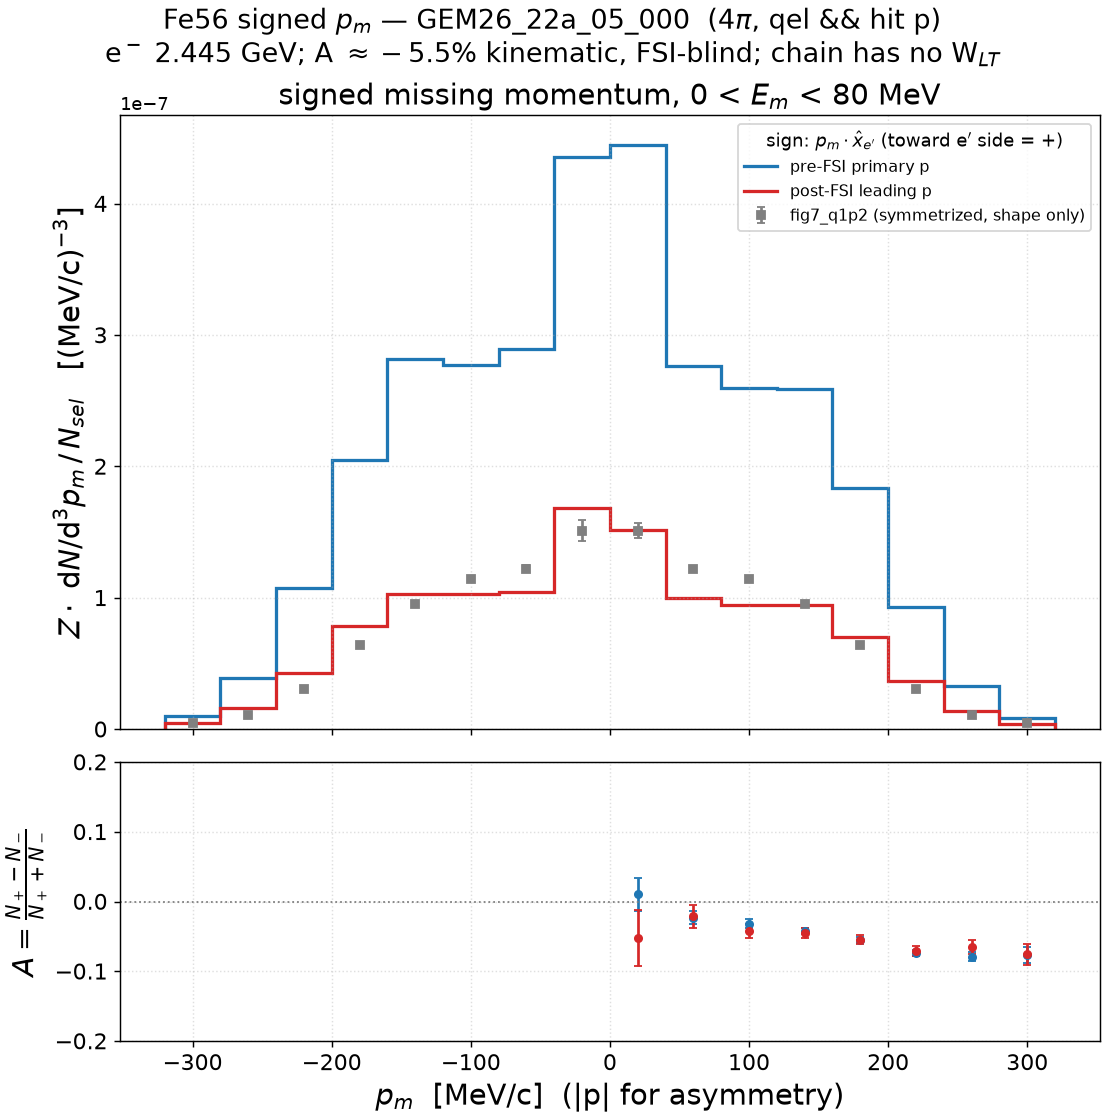
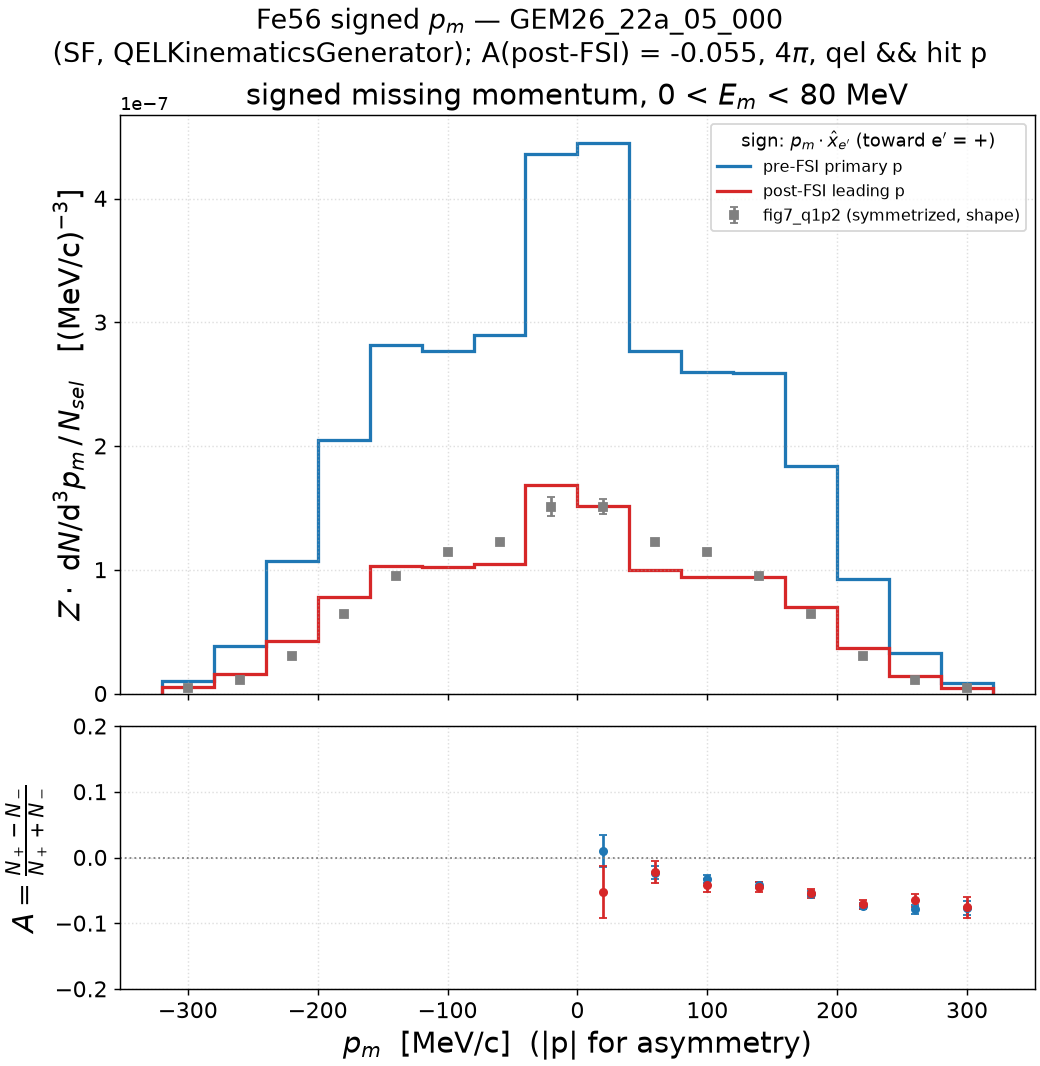
results: Fe56 signed p_m section 4 -> per-tune subsections (4.1-4.4)
make_pmiss_signed_fe56.py parametrized over the four campaign tunes
(--all-tunes, per-tune cache + figure); section 4 restructured with a
common intro + 4.1-4.4.

Finding (motivated doing all four): the +-p_m asymmetry is a diagnostic
of the QEL kinematics generator, not a physical response -- no chain has
a W_LT term yet A spans -0.13..0: QELKinematicsGenerator (11a LFG, 22a
SF) ~= -0.05 (ground state a minor lever); QELEventGenerator (22b) more
than doubles it to -0.128; QELEventGeneratorSuSA (GEM21) samples the
azimuth symmetrically -> A = 0. Kinematic origin (pre-FSI p_m = p_n),
FSI-blind (pre->post <= 0.01). So signed p_m is not yet a clean model
discriminator -- the true W_LT/Coulomb asymmetry would sit on top of the
generator artifact.

diff --git a/results/template/make_pmiss_signed_fe56.py b/results/template/make_pmiss_signed_fe56.py
@@ -1,4 +1,4 @@
-"""Fe56 SIGNED missing momentum (+-p_m) from simulation — GEM26_22a prototype.
+"""Fe56 SIGNED missing momentum (+-p_m) from simulation, per tune.
 
 The published Dutta Figs. 6-8 momentum distributions carry a left-right
 (+-p_m) asymmetry, attributed by the paper to W_LT interference beyond the
@@ -6,7 +6,7 @@ deForest sigma_cc1 and/or Coulomb distortion (tex 1144-1155). The digitized
 fig7_*.dat files are exactly symmetrized, and all earlier repo code computes
 |p_m| only. This script builds the signed distribution from GENIE events,
 4pi (no spectrometer acceptance), for the pre-FSI primary and post-FSI
-leading proton.
+leading proton, one figure per campaign tune.
 
 Sign convention (the paper never states its own -- flip if mirrored vs print):
 per event, z_hat = q_hat; x_hat = normalized transverse-to-q component of the
@@ -14,18 +14,20 @@ scattered-electron momentum (in the scattering plane, e' side);
 signed p_m = sign(p_m . x_hat) * |p_m| with p_m = p_p' - q. Positive = p_m
 tilted toward the e' side of q.
 
-Expected physics: the classic 22a chain (FermiMover + QELKinematicsGenerator,
-factorized dsigma/dQ^2) has no phi_pq dependence at the vertex, so the
-intrinsic pre-FSI asymmetry should be ~0; hA2018 FSI may induce a small one.
-The paper's W_LT/Coulomb mechanism is absent from this chain by construction.
+Expected physics: the a-tune chain (FermiMover + QELKinematicsGenerator,
+factorized dsigma/dQ^2) has no phi_pq dependence at the vertex, so its
+intrinsic asymmetry is purely KINEMATIC (flux/Q^2-window weighting favors
+initial nucleons moving away from the e' side); 22b (QELEventGenerator) and
+GEM21 (QELEventGeneratorSuSA) sample the proton angle differently and may
+differ. The paper's W_LT/Coulomb mechanism is absent from every chain here.
 
 Selection: qel && hitnuc==2212, Dutta-estimator window 0 < E_m < 80 MeV
 (E_m = omega - T_p - p_m^2/(2 M_Mn55)). Data grid: 16 x 40 MeV/c bins,
-edges -320..320 (fig7 centers are +-20, +-60, ..., +-300).
+edges -320..320 (fig7 centers +-20, +-60, ..., +-300).
 
 Usage:
   export BEARER_TOKEN_FILE=/tmp/bt_u$(id -u)
-  pixi run python results/template/make_pmiss_signed_fe56.py [--max-files 20]
+  pixi run python results/template/make_pmiss_signed_fe56.py [--tune T | --all-tunes]
 Cache: results/prd-analyzer-v0.1/cache/pmiss_signed_fe56/<tune>.npz.
 """
 import argparse
@@ -37,16 +39,26 @@ from pathlib import Path
 sys.path.insert(0, "results/template")
 import numpy as np
 from plot_style import (apply_style, style_axis,
-                        FS_LABEL, FS_LEGEND, FS_LEGEND_TITLE, FS_TITLE,
+                        FS_LABEL, FS_LEGEND, FS_LEGEND_TITLE,
                         FS_SUPTITLE, FS_TICK, DPI)
 
 REPO = Path(__file__).resolve().parents[2]
-TUNE = "GEM26_22a_05_000"
-GRIDLOG = REPO / ("jobsub-agent/jobsub-runs/gevgen_grid-2026-07-16/"
-                  "eminus_Fe56_20260716-141800.gridlog")
+GRIDLOG_DIR = REPO / "jobsub-agent/jobsub-runs/gevgen_grid-2026-07-16"
 DATA = REPO / "data/Dipingkar-dutta-data-prc_figs/fig7_q1p2.dat"
-CACHE = REPO / "results/prd-analyzer-v0.1/cache/pmiss_signed_fe56" / f"{TUNE}.npz"
-OUT = REPO / "results/prd-analyzer-v0.1" / f"pmiss_signed_fe56_{TUNE}.png"
+CACHE_DIR = REPO / "results/prd-analyzer-v0.1/cache/pmiss_signed_fe56"
+OUT_DIR = REPO / "results/prd-analyzer-v0.1"
+
+# tune -> (gridlog stem, ground-state label, QEL kinematics generator)
+RUNS = {
+    "GEM26_11a_05_000": ("eminus_Fe56_20260716-113802", "LocalFGM",
+                         "QELKinematicsGenerator"),
+    "GEM26_22a_05_000": ("eminus_Fe56_20260716-141800", "SF",
+                         "QELKinematicsGenerator"),
+    "GEM26_22b_05_000": ("eminus_Fe56_20260716-141807", "SF",
+                         "QELEventGenerator"),
+    "GEM21_11a_05_000": ("eminus_Fe56_20260716-113817", "LocalFGM",
+                         "QELEventGeneratorSuSA"),
+}
 
 Z = 26
 M_REC = 51.1616880                    # Mn55 [GeV], install genie_pdg_table.txt
@@ -55,7 +67,7 @@ M_P = next(v["mass_gev"] for v in _nuc.values() if v["code"] == 2212)
 
 EDGES = np.arange(-320.0, 321.0, 40.0)   # fig7 grid: 16 bins, centers +-20..+-300
 BINW = 40.0
-EM_MAX = 80.0                            # paper window 0 < E_m < 80 MeV
+EM_MAX = 80.0
 
 BRANCHES = ["Ev", "pxv", "pyv", "pzv", "El", "pxl", "pyl", "pzl",
             "hitnuc", "qel",
@@ -68,22 +80,29 @@ def xrootd_url(p, door="fndca1.fnal.gov:1094"):
 
 
 def signed_pm(pxp, pyp, pzp, qx, qy, qz, lx, ly, lz):
-    """Signed p_m = sign(p_m . x_hat)*|p_m|; x_hat = e' transverse to q."""
-    mx, my, mz = pxp - qx, pyp - qy, pzp - qz
-    pm = np.sqrt(mx**2 + my**2 + mz**2)
-    q2 = qx**2 + qy**2 + qz**2
-    a = (lx * qx + ly * qy + lz * qz) / q2       # (p_l . q)/|q|^2
-    tx, ty, tz = lx - a * qx, ly - a * qy, lz - a * qz
-    dot = mx * tx + my * ty + mz * tz            # sign of p_m . x_hat (norm >0)
-    return np.where(dot >= 0, pm, -pm)
+    """Signed p_m = sign(p_m . x_hat)*|p_m|; x_hat = e' transverse to q.
+
+    scikit-hep vector form (regression-checked against the original component
+    arithmetic to float precision, zero sign flips):
+      p_m = p_p - q;  t = p_l - (p_l.q/|q|^2) q;  sign(p_m.t) * |p_m|
+    """
+    import vector
+    pp = vector.array({"px": pxp, "py": pyp, "pz": pzp})
+    q = vector.array({"px": qx, "py": qy, "pz": qz})
+    pl = vector.array({"px": lx, "py": ly, "pz": lz})
+    pm = pp - q
+    t = pl - q * (pl.dot(q) / q.mag2)            # e' transverse to q (in-plane)
+    return np.where(pm.dot(t) >= 0, pm.mag, -pm.mag)
 
 
-def build_cache(max_files):
+def build_cache(tune, max_files):
     import uproot
     import awkward as ak
-    pnfs_dir = json.load(open(GRIDLOG))["pnfs_output_dir"]
+    cache = CACHE_DIR / f"{tune}.npz"
+    gridlog = GRIDLOG_DIR / f"{RUNS[tune][0]}.gridlog"
+    pnfs_dir = json.load(open(gridlog))["pnfs_output_dir"]
     paths = sorted(glob.glob(pnfs_dir + "/*/*.gst.root"))[:max_files]
-    print(f"[{TUNE}] streaming {len(paths)} gst file(s) (signed p_m)")
+    print(f"[{tune}] streaming {len(paths)} gst file(s) (signed p_m)")
     parts, ntot, nsel = [], 0, 0
     for ipath, p in enumerate(paths):
         a = uproot.open(xrootd_url(p))["gst"].arrays(BRANCHES, library="ak")
@@ -115,17 +134,17 @@ def build_cache(max_files):
               f"{nsel:,} selected", flush=True)
     out = {k: np.concatenate([q[k] for q in parts]) for k in parts[0]}
     out["ntot"], out["n_sel"] = np.array([ntot]), np.array([nsel])
-    CACHE.parent.mkdir(parents=True, exist_ok=True)
-    np.savez_compressed(CACHE, **out)
-    print(f"[{TUNE}] cached -> {CACHE}")
+    CACHE_DIR.mkdir(parents=True, exist_ok=True)
+    np.savez_compressed(cache, **out)
+    print(f"[{tune}] cached -> {cache}")
 
 
 def occ_hist(pm, Em, n_sel):
-    """Counts per bin and the DENSITY y = Z*N/(N_sel*dp*4pi*p_c^2) [(MeV/c)^-3].
+    """Counts per bin + DENSITY y = Z*N/(N_sel*dp*4pi*p_c^2) [(MeV/c)^-3].
 
     The published fig7 y-axis is a density (int S^D dE_m, per d^3p_m: peaks at
-    p_m = 0), so the event counts (~ p^2 * S: dip at 0) must have the 4pi p^2
-    phase-space factor divided out for a shape comparison."""
+    p_m = 0); raw counts (~ p^2 S) dip at 0, so divide out the 4pi p^2 phase
+    space for a shape comparison."""
     win = np.isfinite(pm) & (Em > 0.0) & (Em < EM_MAX)
     cnt, _ = np.histogram(pm[win], bins=EDGES)
     p_c = np.abs((EDGES[:-1] + EDGES[1:]) / 2.0)
@@ -134,75 +153,59 @@ def occ_hist(pm, Em, n_sel):
 
 
 def asym(cnt):
-    """A(|p|) = (N+ - N-)/(N+ + N-) per mirrored bin pair, with stat error."""
     nb = len(cnt) // 2
     Np, Nm = cnt[nb:], cnt[:nb][::-1]
     tot = Np + Nm
     with np.errstate(invalid="ignore", divide="ignore"):
         A = (Np - Nm) / tot
         dA = np.sqrt(np.clip(1.0 - A ** 2, 0, None) / np.clip(tot, 1, None))
-    return A, dA, tot
+    return A, dA
 
 
-if __name__ == "__main__":
-    ap = argparse.ArgumentParser()
-    ap.add_argument("--max-files", type=int, default=20)
-    args = ap.parse_args()
-
-    if not CACHE.exists():
-        build_cache(args.max_files)
-    c = dict(np.load(CACHE))
+def make_figure(tune, max_files, dutta):
+    cache = CACHE_DIR / f"{tune}.npz"
+    if not cache.exists():
+        build_cache(tune, max_files)
+    c = dict(np.load(cache))
     n_sel = float(c["n_sel"][0])
+    gs, gen = RUNS[tune][1], RUNS[tune][2]
 
     stages = {}
+    print(f"[{tune}] ({gs}, {gen}):")
     for s, label in ((3, "pre-FSI primary p"), (4, "post-FSI leading p")):
         cnt, y = occ_hist(c[f"pm{s}"], c[f"Em{s}"], n_sel)
-        A, dA, tot = asym(cnt)
-        Nplus, Nminus = cnt[len(cnt)//2:].sum(), cnt[:len(cnt)//2].sum()
-        Aint = (Nplus - Nminus) / max(Nplus + Nminus, 1)
-        dAint = np.sqrt((1 - Aint**2) / max(Nplus + Nminus, 1))
-        stages[s] = (label, cnt, y, A, dA)
-        print(f"stage {s} ({label}): N(in-window)={int(cnt.sum()):,}  "
-              f"integrated A = {Aint:+.4f} +- {dAint:.4f}")
-        # sign-shuffle control: random signs must give A ~ 0
-        rng = np.random.default_rng(20260716)
-        pm = c[f"pm{s}"]; Em = c[f"Em{s}"]
-        win = np.isfinite(pm) & (Em > 0) & (Em < EM_MAX)
-        shuf = np.abs(pm[win]) * rng.choice([-1.0, 1.0], size=int(win.sum()))
-        cs, _ = np.histogram(shuf, bins=EDGES)
-        Ash = (cs[len(cs)//2:].sum() - cs[:len(cs)//2].sum()) / cs.sum()
-        print(f"  sign-shuffle control: A = {Ash:+.4f} (expect ~0)")
+        A, dA = asym(cnt)
+        Np, Nm = cnt[len(cnt)//2:].sum(), cnt[:len(cnt)//2].sum()
+        Ai = (Np - Nm) / max(Np + Nm, 1)
+        dAi = np.sqrt((1 - Ai**2) / max(Np + Nm, 1))
+        stages[s] = (label, cnt, y, A, dA, Ai, dAi)
+        print(f"  stage {s} ({label}): N={int(cnt.sum()):,}  A = {Ai:+.4f} +- {dAi:.4f}")
 
-    # symmetrized digitized fig7 as gray shape reference (both are densities
-    # now; scale data to the stage-4 density integral)
-    dx, dy, _, de = np.loadtxt(DATA, unpack=True)
+    dx, dy, _, de = np.loadtxt(dutta, unpack=True)
     scale = stages[4][2].sum() / dy.sum()
 
-    apply_style()
     import matplotlib.pyplot as plt
-    fig, (ax, axA) = plt.subplots(2, 1, figsize=(8.5, 8.6), sharex=True,
+    fig, (ax, axA) = plt.subplots(2, 1, figsize=(8.0, 8.2), sharex=True,
                                   height_ratios=[2.2, 1], layout="constrained")
     ax.stairs(stages[3][2], EDGES, color="C0", linewidth=1.8,
               label="pre-FSI primary p")
     ax.stairs(stages[4][2], EDGES, color="C3", linewidth=1.8,
               label="post-FSI leading p")
     ax.errorbar(dx, dy * scale, yerr=de * scale, fmt="s", ms=4, color="0.5",
-                capsize=2, zorder=8,
-                label="fig7_q1p2 (symmetrized, shape only)")
+                capsize=2, zorder=8, label="fig7_q1p2 (symmetrized, shape)")
     style_axis(ax, title="signed missing momentum, 0 < $E_m$ < 80 MeV",
                logx=False, logy=False, ymin=None)
     ax.set_ylim(0, None)
     ax.set_ylabel(r"$Z\cdot$ d$N/$d$^3p_m\,/\,N_{sel}$   [(MeV/c)$^{-3}$]",
                   fontsize=FS_LABEL)
     ax.legend(fontsize=FS_LEGEND - 3, loc="upper right",
-              title="sign: $p_m\\cdot\\hat{x}_{e'}$ (toward e$'$ side = +)",
+              title="sign: $p_m\\cdot\\hat{x}_{e'}$ (toward e$'$ = +)",
               title_fontsize=FS_LEGEND_TITLE - 3)
 
     centers = (EDGES[len(EDGES)//2:-1] + EDGES[len(EDGES)//2 + 1:]) / 2.0
     for s, color in ((3, "C0"), (4, "C3")):
-        label, cnt, y, A, dA = stages[s]
-        axA.errorbar(centers, A, yerr=dA, fmt="o", ms=4, color=color,
-                     capsize=2, label=label)
+        _, _, _, A, dA, _, _ = stages[s]
+        axA.errorbar(centers, A, yerr=dA, fmt="o", ms=4, color=color, capsize=2)
     axA.axhline(0.0, color="0.5", lw=1, ls=":")
     style_axis(axA, title=None, xlabel=r"$p_m$  [MeV/c]  (|p| for asymmetry)",
                logx=False, logy=False, ymin=None)
@@ -210,9 +213,28 @@ if __name__ == "__main__":
     axA.set_ylim(-0.2, 0.2)
     axA.tick_params(labelsize=FS_TICK)
 
-    fig.suptitle(f"Fe56 signed $p_m$ — {TUNE}  (4$\\pi$, qel && hit p)\n"
-                 "e$^-$ 2.445 GeV; A $\\approx-5.5\\%$ kinematic, FSI-blind; "
-                 "chain has no W$_{LT}$",
+    fig.suptitle(f"Fe56 signed $p_m$ — {tune}\n({gs}, {gen}); "
+                 f"A(post-FSI) = {stages[4][5]:+.3f}, 4$\\pi$, qel && hit p",
                  fontsize=FS_SUPTITLE - 3)
-    fig.savefig(OUT, dpi=DPI)
-    print("wrote", OUT)
+    out = OUT_DIR / f"pmiss_signed_fe56_{tune}.png"
+    fig.savefig(out, dpi=DPI)
+    plt.close(fig)
+    print("  wrote", out)
+    return {s: (stages[s][5], stages[s][6]) for s in (3, 4)}
+
+
+if __name__ == "__main__":
+    ap = argparse.ArgumentParser()
+    ap.add_argument("--tune", default="GEM26_22a_05_000", choices=sorted(RUNS))
+    ap.add_argument("--all-tunes", action="store_true")
+    ap.add_argument("--max-files", type=int, default=20)
+    args = ap.parse_args()
+
+    apply_style()
+    summary = {}
+    for t in (list(RUNS) if args.all_tunes else [args.tune]):
+        summary[t] = make_figure(t, args.max_files, DATA)
+    print("\nintegrated asymmetry summary (post-FSI):")
+    for t, s in summary.items():
+        print(f"  {t}: pre-FSI {s[3][0]:+.4f}+-{s[3][1]:.4f}  "
+              f"post-FSI {s[4][0]:+.4f}+-{s[4][1]:.4f}")

diff --git a/results/prd-analyzer-v0.1/electron_fe56_scattering.md b/results/prd-analyzer-v0.1/electron_fe56_scattering.md
@@ -184,47 +184,81 @@ Reading:
 Regenerate: `pixi run python results/template/make_pmiss_fe56.py`
 (reads the `cache/ladder_fe56/` caches).
 
-## 4. Signed missing momentum (± asymmetry) — GEM26_22a_05_000
-
-![Fe56 signed p_m, GEM26_22a_05_000, 4pi](pmiss_signed_fe56_GEM26_22a_05_000.png)
+## 4. Signed missing momentum (± asymmetry)
 
 The published Figs. 6–8 momentum distributions carry a left–right (±p_m)
-asymmetry that the paper attributes to W_LT interference beyond deForest
-σ_cc1 and/or Coulomb distortion (tex 1144–1155). The digitized `fig7_*.dat`
-files are exactly symmetrized, so this is simulation-side only (4π, no
-spectrometer acceptance; `qel && hitnuc==2212`, Dutta window 0 < E_m < 80 MeV,
-2M streamed events → 232k pre-FSI / 90k post-FSI in-window).
+asymmetry the paper attributes to W_LT interference beyond deForest σ_cc1
+and/or Coulomb distortion (tex 1144–1155). The digitized `fig7_*.dat` files
+are exactly symmetrized, so this is simulation-side only (4π, no spectrometer
+acceptance; `qel && hitnuc==2212`, Dutta window 0 < E_m < 80 MeV, 2M streamed
+events/tune), one figure per tune.
 
 **Sign convention** (the paper never states its own): ẑ = q̂, x̂ = the
 scattered electron's transverse-to-q direction (in-plane, e′ side);
 signed p_m = sign(p_m·x̂)·|p_m| with p_m = p_p′ − q. Positive = p_m tilted
 toward the e′ side. If the print's asymmetry turns out mirrored, flip.
+**Units**: the top panel is a *density* (raw counts with the 4π p² phase-space
+factor divided out, per d³p_m) — the fig7 y-axis peaks at p_m = 0, raw counts
+dip there.
 
-**Units**: the top panel is a *density* (counts with the 4π p² phase-space
-factor divided out, per d³p_m) — the published fig7 y-axis is ∫S^D dE_m per
-d³p_m, which peaks at p_m = 0; raw signed-p_m counts dip at 0 by phase space.
+**Headline: the ± asymmetry is a diagnostic of the QEL kinematics generator,
+not a physical response.** None of the four chains contains a W_LT term, yet
+the integrated asymmetry spans −0.13 to 0 depending purely on which generator
+samples the proton angle:
 
-Findings:
+| tune | ground state | QEL kinematics generator | A pre-FSI | A post-FSI |
+|---|---|---|---|---|
+| GEM26_11a_05_000 | LFG | `QELKinematicsGenerator` | −0.0466 ± 0.0020 | −0.0367 ± 0.0031 |
+| GEM26_22a_05_000 | SF | `QELKinematicsGenerator` | −0.0546 ± 0.0021 | −0.0554 ± 0.0033 |
+| GEM26_22b_05_000 | SF | `QELEventGenerator` | **−0.1283 ± 0.0024** | **−0.1227 ± 0.0037** |
+| GEM21_11a_05_000 | LFG | `QELEventGeneratorSuSA` | **+0.0028 ± 0.0022** | **+0.0008 ± 0.0035** |
 
-- **GEM26_22a does produce an intrinsic ± asymmetry**: integrated
-  A = −0.0546 ± 0.0021 (pre-FSI) and −0.0554 ± 0.0033 (post-FSI);
-  sign-shuffle controls ±0.001. A(|p|) grows from ~0 at 20 MeV/c to ≈ −8%
-  at 300 MeV/c. The plan expectation (A ≈ 0 for the factorized chain) was
-  wrong: since pre-FSI p_m ≡ p_n exactly, this is a **kinematic** asymmetry —
-  the flux/Q²-window weighting favors initial nucleons moving *away* from
-  the e′ side — not a W_LT response effect (the chain has none by
-  construction).
-- **FSI does not touch the asymmetry** (−5.46% → −5.54%): hA2018 redistributes
-  magnitude, not the ± balance.
-- **The post-FSI density reproduces the (symmetrized) data shape closely**
-  (gray points scaled to the post-FSI integral sit on the red curve) — the
-  FSI-distorted GENIE density has the right p_m profile even though the
-  E_m profile (ladder section) misses the peak.
+Since the pre-FSI p_m ≡ p_n exactly, this is a **kinematic** asymmetry (the
+flux/Q²-window acceptance couples to the sampled proton direction), and **FSI
+barely touches it** (pre→post shifts ≤ 0.01 everywhere). The generator, not
+the ground state or QE cross section, sets it: the two `QELKinematicsGenerator`
+tunes agree at ≈ −0.05 across LFG and SF; `QELEventGenerator` more than doubles
+it; the SuSA generator samples symmetrically and gives zero. Whatever the true
+W_LT/Coulomb asymmetry of the data is, it would sit *on top of* this
+generator artifact — so the signed p_m is not yet a clean model discriminator.
 
-Follow-ups (not done): the HMS×SOS in-acceptance version for a direct print
-comparison; the other three tunes (22b's QELEventGenerator samples full COM
-angles — its intrinsic asymmetry may differ); pixel-measuring the published
-fig7 asymmetry.
+### 4.1 GEM26_11a_05_000 — LocalFGM, QELKinematicsGenerator
 
-Regenerate: `pixi run python results/template/make_pmiss_signed_fe56.py`
+![Fe56 signed p_m, GEM26_11a_05_000](pmiss_signed_fe56_GEM26_11a_05_000.png)
+
+A = −0.047 (pre) → −0.037 (post): the classic FermiMover +
+`QELKinematicsGenerator` chain on a Fermi-gas ground state. A(|p|) grows to
+≈ −7% at 300 MeV/c; FSI slightly *reduces* the magnitude.
+
+### 4.2 GEM26_22a_05_000 — 2D SpectralFunc, QELKinematicsGenerator
+
+![Fe56 signed p_m, GEM26_22a_05_000](pmiss_signed_fe56_GEM26_22a_05_000.png)
+
+A = −0.055, essentially unchanged by FSI. Same generator as 11a on the 2D SF
+ground state — the near-identical asymmetry (−0.047 vs −0.055) shows the
+ground-state model is a minor lever compared to the generator. The post-FSI
+density tracks the symmetrized fig7 shape closely.
+
+### 4.3 GEM26_22b_05_000 — 2D SpectralFunc, QELEventGenerator
+
+![Fe56 signed p_m, GEM26_22b_05_000](pmiss_signed_fe56_GEM26_22b_05_000.png)
+
+A = **−0.128** (pre) → −0.123 (post) — the largest, more than double the
+`QELKinematicsGenerator` tunes on the *same* SF ground state, and A(|p|)
+reaches ≈ −0.19 at 300 MeV/c. The modern `QELEventGenerator` samples the full
+struck-nucleon kinematics from the nuclear model plus the UnifiedQEL off-shell
+cross section, which imprints a much stronger direction–acceptance
+correlation. This is the tune where the signed p_m most departs from the
+others.
+
+### 4.4 GEM21_11a_05_000 — LocalFGM, QELEventGeneratorSuSA
+
+![Fe56 signed p_m, GEM21_11a_05_000](pmiss_signed_fe56_GEM21_11a_05_000.png)
+
+A = **+0.003 ± 0.002 (pre), +0.001 ± 0.004 (post)** — consistent with **zero**.
+`QELEventGeneratorSuSA` samples the proton azimuth symmetrically about q, so
+the SuSA chain produces no intrinsic ± asymmetry at all — the opposite extreme
+from 22b. (Reminder: Fe56 EM SuSAv2 is a scaled-C12 surrogate.)
+
+Regenerate: `pixi run python results/template/make_pmiss_signed_fe56.py --all-tunes`
 (cache: `cache/pmiss_signed_fe56/`).
